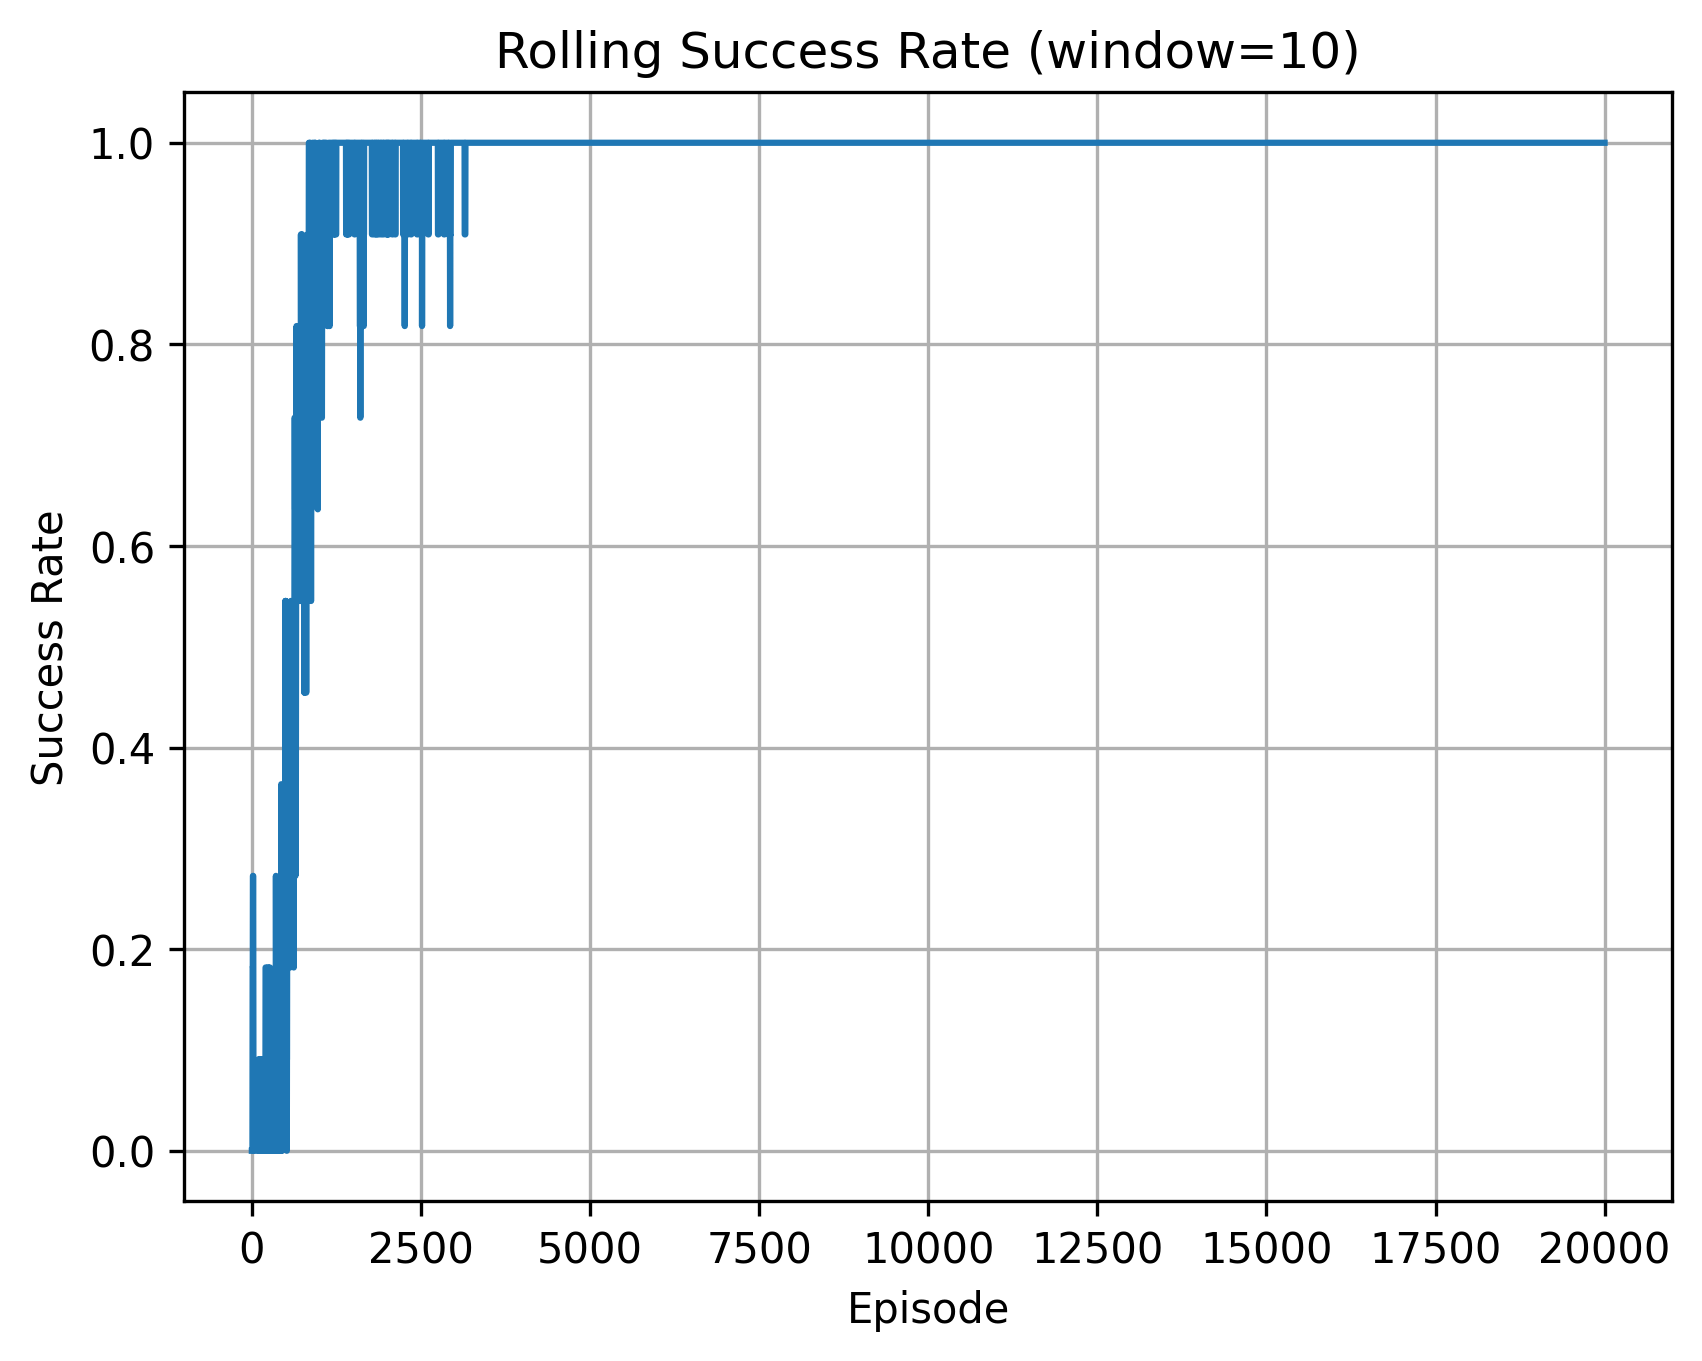
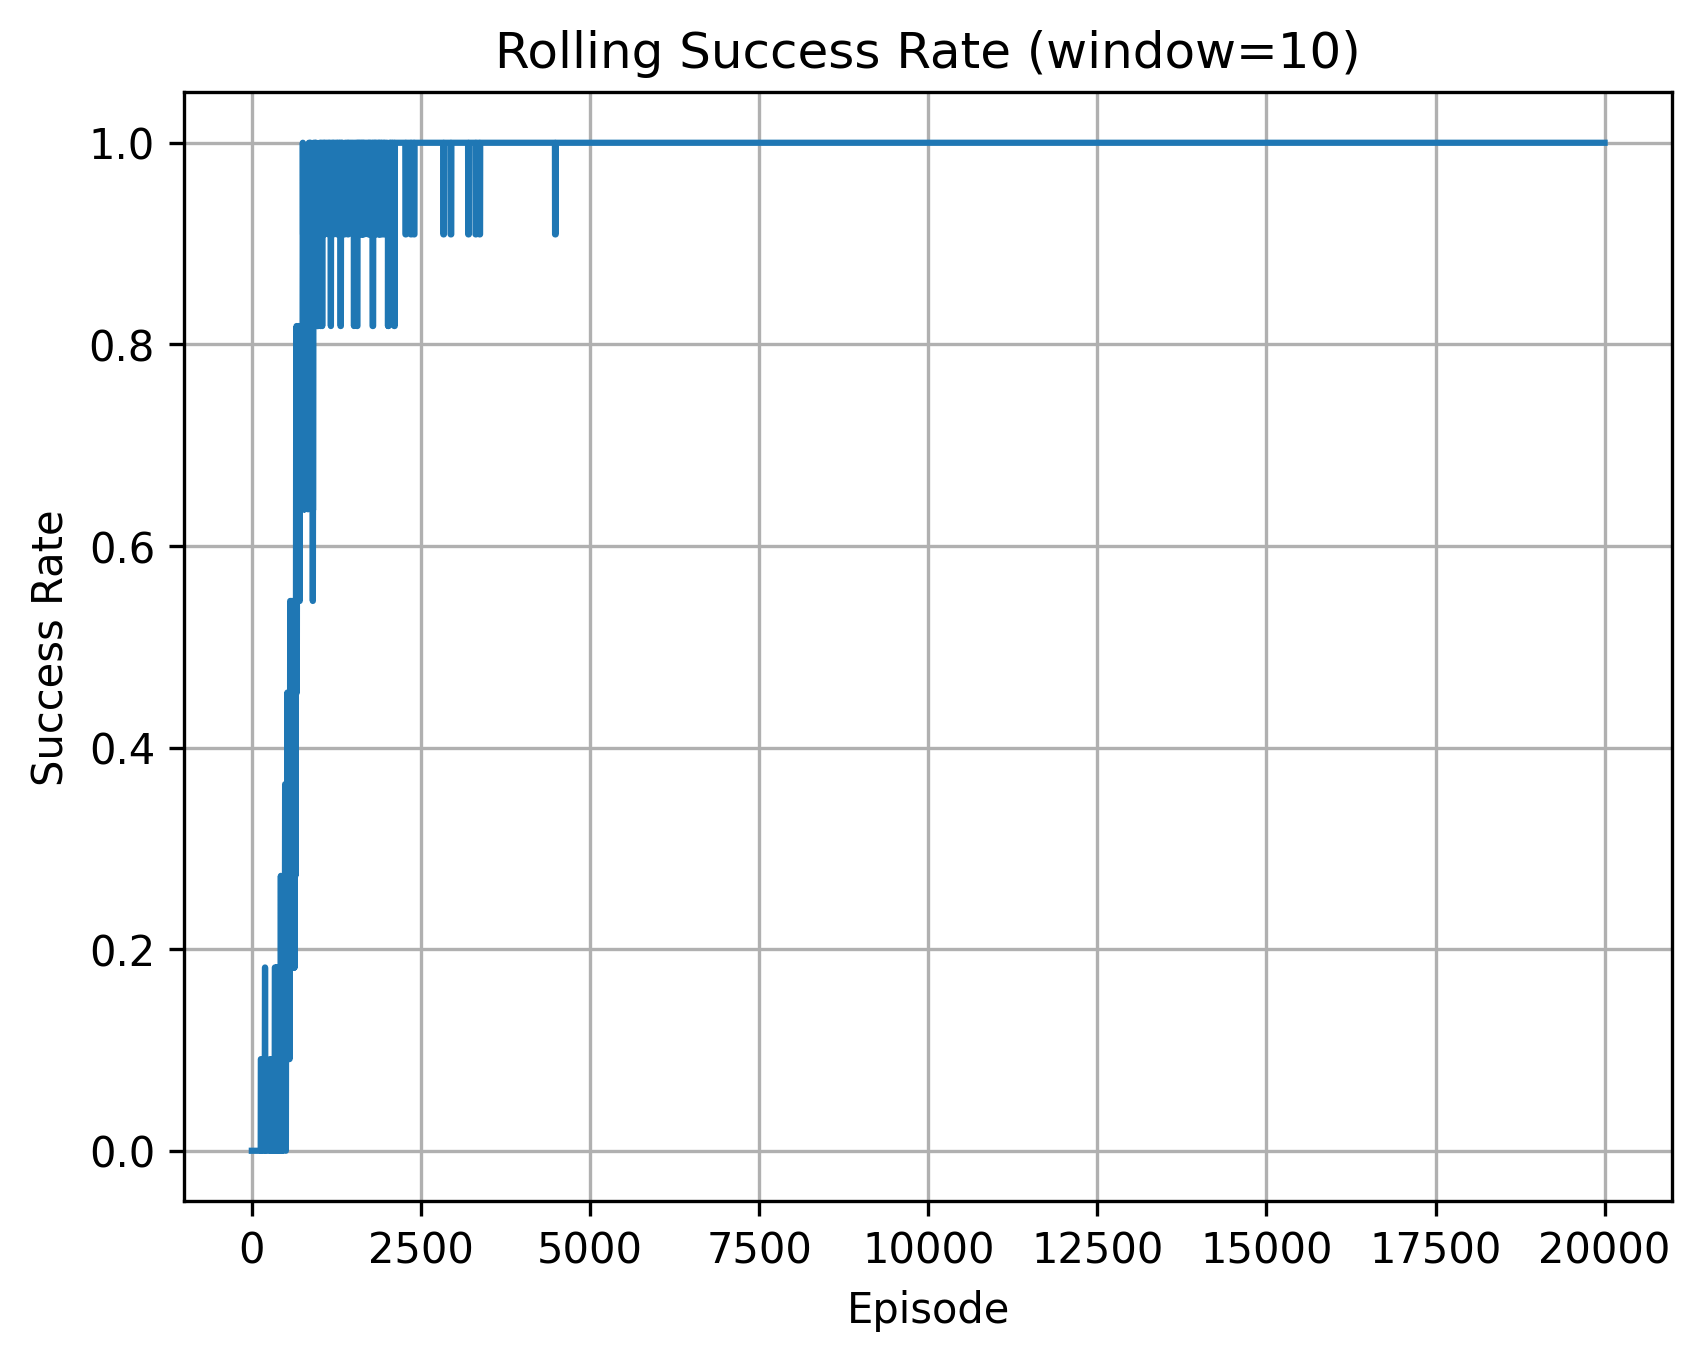
fixed the count and entropy strategies

Changed region(s): [[0.1557, 0.0926, 0.3425, 0.3086], [0.1246, 0.6481, 0.1868, 0.8332], [0.1557, 0.3703, 0.1868, 0.5246]]

diff --git a/agent/policies.py b/agent/policies.py
@@ -8,7 +8,7 @@ def choose_action(state, q_table, prev_q_table, strategy, epsilon, n_actions, sa
 
     if strategy == "decay":
         adaptive_epsilon = epsilon
-        
+
     elif strategy == "novelty":
         # Learning progress
         learning_progress = np.max(np.abs(q_values - prev_q_values))
@@ -34,7 +34,7 @@ def choose_action(state, q_table, prev_q_table, strategy, epsilon, n_actions, sa
         q_probs = softmax(q_values) if np.any(q_values) else np.ones(n_actions) / n_actions
         H = entropy(q_probs)
         H_norm = H / (np.log(n_actions) + 1e-12)
-        adaptive_epsilon = H_norm
+        adaptive_epsilon = max(epsilon, H_norm)
 
     elif strategy == "count":
         counts = np.array([sa_counts.get((state, a), 0) for a in range(n_actions)], dtype=float)
